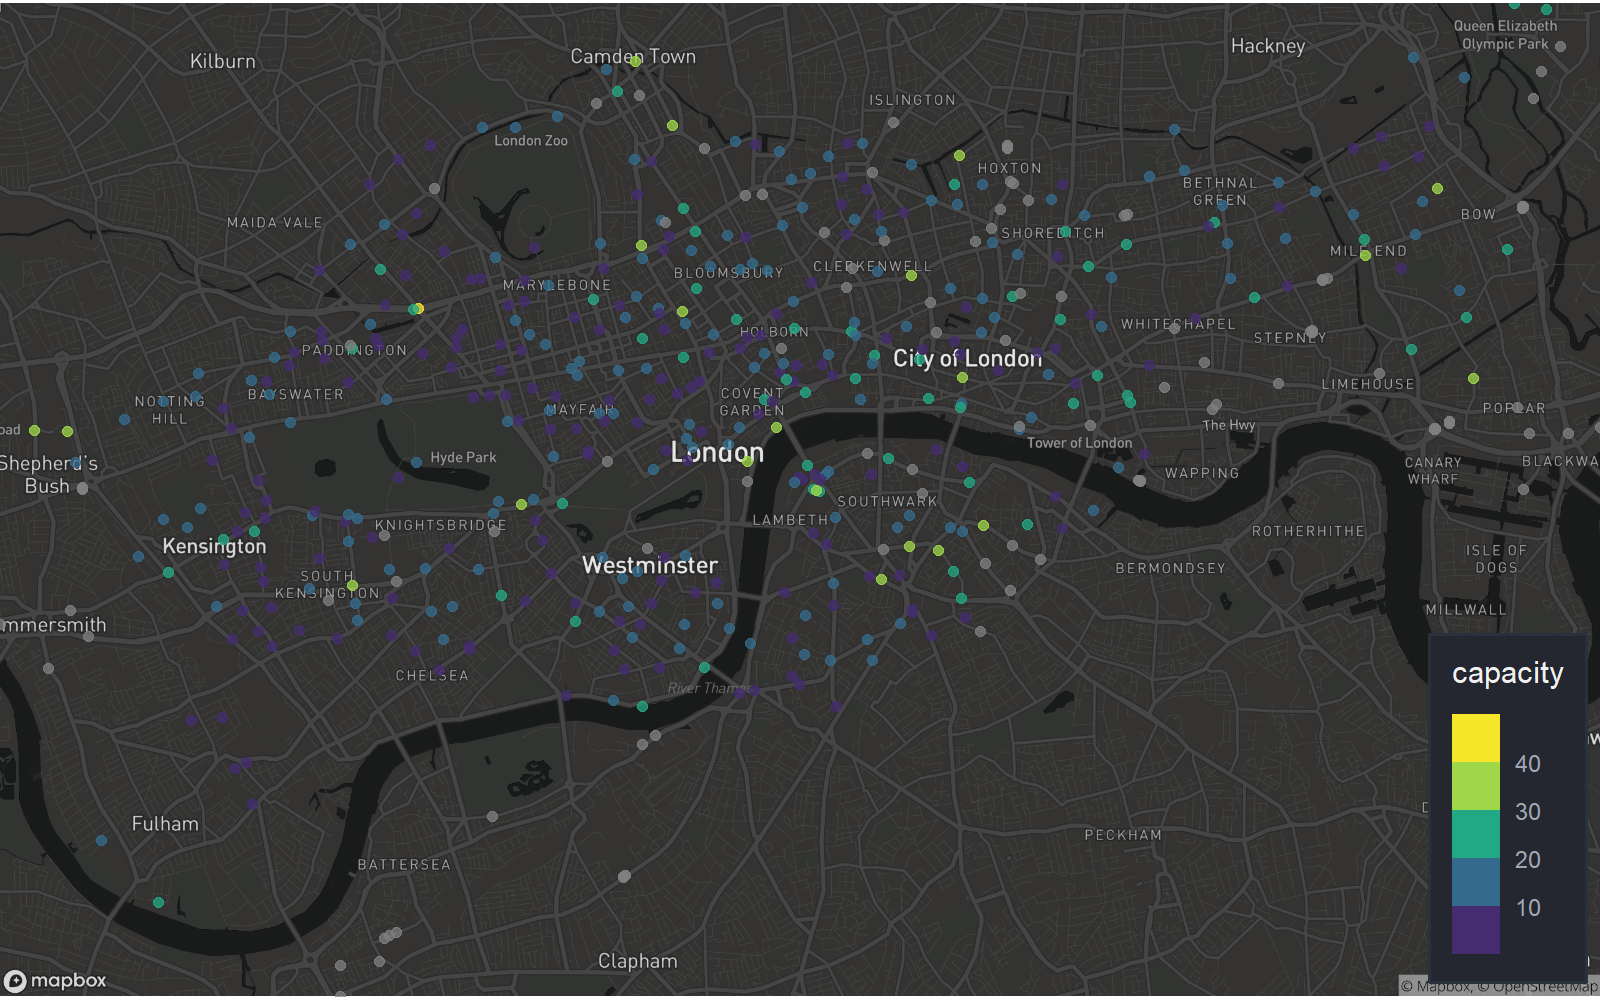
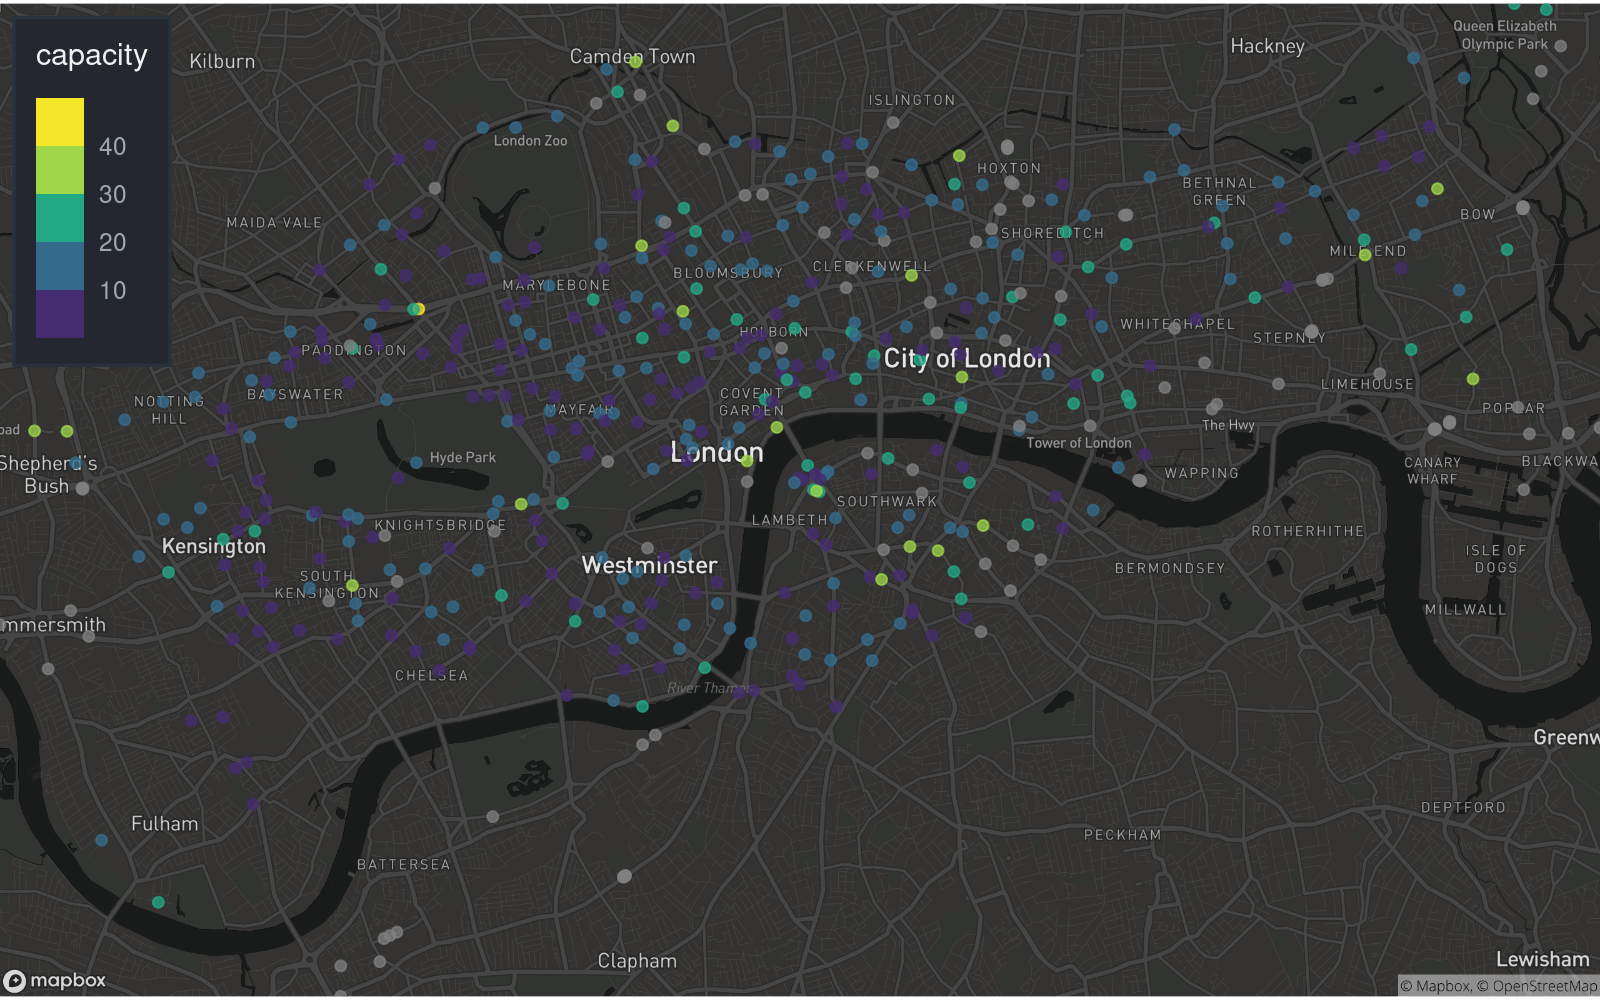
now with DROPSHADOW

diff --git a/README.md b/README.md
@@ -26,30 +26,38 @@ devtools::install_github("milesmcbain/inlegend")
 
 ``` r
 library(spData)
+#> To access larger datasets in this package, install the spDataLarge
+#> package with: `install.packages('spDataLarge',
+#> repos='https://nowosad.github.io/drat/', type='source')`
 library(snapbox) ##remotes::install_github("anthonynorth/snapbox")
 library(ggplot2)
 library(ggspatial)
 library(sf)
+#> Linking to GEOS 3.8.0, GDAL 3.0.4, PROJ 6.3.1
 library(inlegend)
-
+library(stylebox)
 ggplot() +
-  layer_mapbox(spData::cycle_hire_osm) +
+  layer_mapbox(
+    spData::cycle_hire_osm
+  ) +
   layer_spatial(spData::cycle_hire_osm,
                 aes(colour = capacity),
                 alpha = 0.75) +
   scale_colour_viridis_b() +
-  inset_legend_dark("bottom-right") +
-  theme_cropped_map() 
-#> Warning in showSRID(uprojargs, format = "PROJ", multiline = "NO"): Discarded
-#> ellps WGS 84 in CRS definition: +proj=merc +a=6378137 +b=6378137 +lat_ts=0
-#> +lon_0=0 +x_0=0 +y_0=0 +k=1 +units=m +nadgrids=@null +wktext +no_defs
-#> Warning in showSRID(uprojargs, format = "PROJ", multiline = "NO"): Discarded
-#> datum WGS_1984 in CRS definition
-#> Warning in showSRID(uprojargs, format = "PROJ", multiline = "NO"): Discarded
-#> ellps WGS 84 in CRS definition: +proj=merc +a=6378137 +b=6378137 +lat_ts=0
-#> +lon_0=0 +x_0=0 +y_0=0 +k=1 +units=m +nadgrids=@null +wktext +no_defs
-#> Warning in showSRID(uprojargs, format = "PROJ", multiline = "NO"): Discarded
-#> datum WGS_1984 in CRS definition
+  inset_legend_dark("top-left") +
+  theme_cropped_map()
+#> Warning in showSRID(uprojargs, format = "PROJ", multiline = "NO", prefer_proj
+#> = prefer_proj): Discarded ellps WGS 84 in CRS definition: +proj=merc +a=6378137
+#> +b=6378137 +lat_ts=0 +lon_0=0 +x_0=0 +y_0=0 +k=1 +units=m +nadgrids=@null
+#> +wktext +no_defs +type=crs
+#> Warning in showSRID(uprojargs, format = "PROJ", multiline = "NO", prefer_proj =
+#> prefer_proj): Discarded datum World Geodetic System 1984 in CRS definition
+#> Warning in showSRID(uprojargs, format = "PROJ", multiline = "NO", prefer_proj
+#> = prefer_proj): Discarded ellps WGS 84 in CRS definition: +proj=merc +a=6378137
+#> +b=6378137 +lat_ts=0 +lon_0=0 +x_0=0 +y_0=0 +k=1 +units=m +nadgrids=@null
+#> +wktext +no_defs +type=crs
+#> Warning in showSRID(uprojargs, format = "PROJ", multiline = "NO", prefer_proj =
+#> prefer_proj): Discarded datum World Geodetic System 1984 in CRS definition
 ```
 
 <div class="figure">
